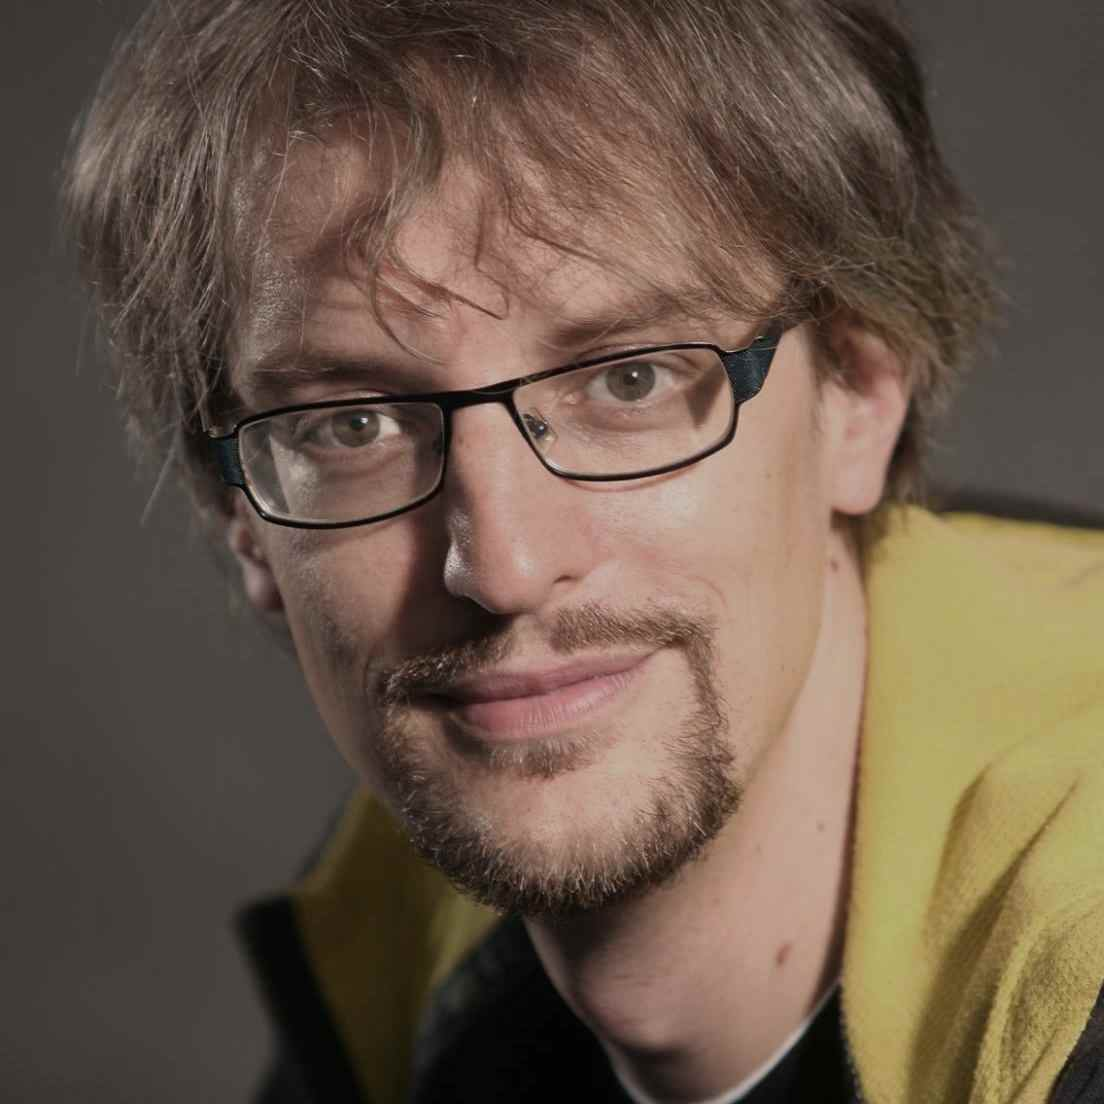
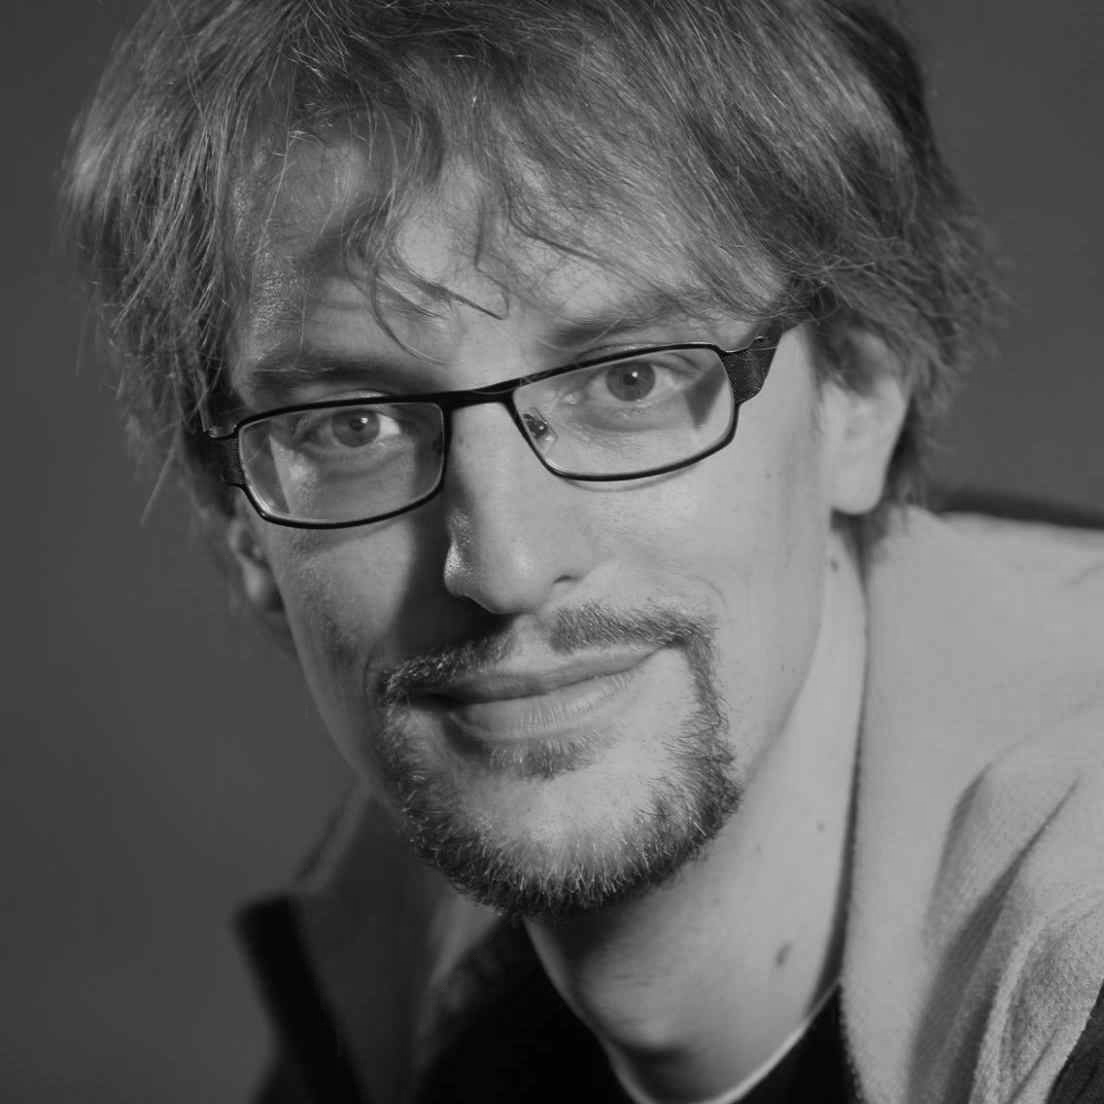
mobilní verze

diff --git a/index.html b/index.html
@@ -39,49 +39,50 @@
     </div>
     <div class="w2">
       <h2><i class="fas fa-battery-three-quarters"></i></h2>
-      <p>Lorem ipsum dolor sit amet consectetur adipisicing elit. Quis, cumque voluptatibus. Dolor, impedit repellat, repellendus similique saepe nobis doloremque officia sapiente ad natus quasi neque esse, itaque quaerat officiis exercitationem.</p>
+      <p>Lorem ipsum dolor sit amet consectetur adipisicing elit. Quis, cumque voluptatibus. Dolor, impedit repellat.</p>
     </div>
 
   </div>
 
   <div class="container">
     <div class="bg1">
-      <h2><i class="fas fa-running"></i></h2>
-      <p>Lorem ipsum dolor, sit amet consectetur adipisicing elit. Pariatur voluptatem ipsa iure odio recusandae voluptatum culpa suscipit totam doloribus, ut accusamus repellendus cupiditate veritatis impedit alias at perferendis optio. Molestias.</p>
+      <h2>Lor</h2>
+      <p>Lorem ipsum, dolor sit amet consectetur adipisicing elit. Sunt maiores saepe soluta optio eveniet atque molestiae eum corrupti quos. Incidunt deserunt voluptatem quam tempore impedit. Possimus explicabo quae fugit minima?</p>
     </div>
     <div class="bg2">
       <h2>Lor</h2>
       <p>Lorem ipsum dolor sit amet consectetur, adipisicing elit. Necessitatibus suscipit dolores, dolore quibusdam sed architecto harum. Amet molestias quae consectetur. Aut recusandae officiis a accusantium sint amet eius odio id.</p>
     </div>
-    <div class="bg3">
-      <h2><i class="fas fa-bed"></i></h2>
-      <!--<img src="obrazky/Lukas.jpg" width="500vw">-->
-    </div>
-    <div class="bg4">
-      <h2></h2>
-      <p>Lorem ipsum dolor sit amet consectetur adipisicing elit. Commodi voluptate quisquam distinctio, labore ratione et voluptatem cupiditate accusantium a maiores tempora qui voluptatum, aut dolor id incidunt consectetur aspernatur deleniti.</p>
-    </div>
-    <div class="bg5">
-      <h2></h2>
+    <div class="bg1">
+      <h2>Lor</h2>
       <p>Lorem ipsum, dolor sit amet consectetur adipisicing elit. Sunt maiores saepe soluta optio eveniet atque molestiae eum corrupti quos. Incidunt deserunt voluptatem quam tempore impedit. Possimus explicabo quae fugit minima?</p>
     </div>
-    <div class="bg6">
+    
+    <div class="bg2">
+      <h2>Lor</h2>
+      <p>Lorem ipsum dolor sit amet consectetur adipisicing elit. Commodi voluptate quisquam distinctio, labore ratione et voluptatem cupiditate accusantium a maiores tempora qui voluptatum, aut dolor id incidunt consectetur aspernatur deleniti.</p>
+    </div>
+    <div class="bg1">
+      <h2>Lor</h2>
+      <p>Lorem ipsum, dolor sit amet consectetur adipisicing elit. Sunt maiores saepe soluta optio eveniet atque molestiae eum corrupti quos. Incidunt deserunt voluptatem quam tempore impedit. Possimus explicabo quae fugit minima?</p>
+    </div>
+    <div class="bg2">
       <h2>Lore</h2>
       <p>Lorem ipsum dolor sit, amet consectetur adipisicing elit. Commodi, facilis! Suscipit obcaecati in natus adipisci dolorem veniam eos, odit reprehenderit quisquam ut cumque ad. Exercitationem voluptatibus magnam odit animi reiciendis!</p>
     </div>
-    <div class="bg7">
+    <div class="bg1">
       <h2>Lor</h2>
       <p>Lorem ipsum dolor sit amet consectetur adipisicing elit. Quas voluptate ipsam ipsa magnam temporibus dolore, quae quo recusandae cumque quod laudantium illum dignissimos accusantium aut suscipit doloribus deserunt molestias nemo!</p>
     </div>
-    <div class="bg8">
+    <div class="bg2">
       <h2>Lor</h2>
       <p>Lorem ipsum dolor sit amet consectetur adipisicing elit. Exercitationem est illum a reprehenderit recusandae delectus quidem excepturi velit voluptatum. Libero, maxime minima! Beatae quasi, ipsum itaque ex ea assumenda sunt!</p>
     </div>
-    <div class="bg9">
+    <div class="bg1">
       <h2>Lor</h2>
       <p>Lorem ipsum dolor sit amet consectetur adipisicing elit. Eum repudiandae non, aperiam assumenda rem obcaecati voluptas doloribus quas rerum harum eius. Enim, excepturi ipsum quam doloribus provident reiciendis officiis rerum.</p>
     </div>
-    <div class="bg10">
+    <div class="bg2">
       <h2>Lor</h2>
       <p>Lorem ipsum dolor sit, amet consectetur adipisicing elit. Ad nostrum enim deserunt consequuntur saepe error, voluptatum voluptatibus, atque quos pariatur nam obcaecati? Neque sunt quae sit sapiente! Eos, veniam maiores.</p>
     </div>

diff --git a/style.scss b/style.scss
@@ -80,21 +80,27 @@ body{
 }
 
 .main{
-  background-color: rgba(255, 255, 255, 0.5);
-  padding: 2rem;
-  margin: 2rem;
+  background-image: url("obrazky/Lukas2.jpg");
+  background-position: center;
+  background-size: cover;
+  opacity: 0.9;
+  padding: 1rem;
+  margin: 1rem;
   width: 100%;
   
   }
 
 .w1{
-  background-image: url(obrazky/Lukas.jpg);
   background-position: center;
   background-size: cover;
   margin: 2rem;
   margin-top: -1rem;
-  height: 40vw;
+  height: 60vw;
 
+}
+
+.w2{
+ padding-right: 4rem;
 }
 
 .container{

diff --git a/style.css b/style.css
@@ -98,19 +98,25 @@ body {
 }
 
 .main {
-  background-color: rgba(255, 255, 255, 0.5);
-  padding: 2rem;
-  margin: 2rem;
+  background-image: url("obrazky/Lukas2.jpg");
+  background-position: center;
+  background-size: cover;
+  opacity: 0.9;
+  padding: 1rem;
+  margin: 1rem;
   width: 100%;
 }
 
 .w1 {
-  background-image: url(obrazky/Lukas.jpg);
   background-position: center;
   background-size: cover;
   margin: 2rem;
   margin-top: -1rem;
-  height: 40vw;
+  height: 60vw;
+}
+
+.w2 {
+  padding-right: 4rem;
 }
 
 .container {
